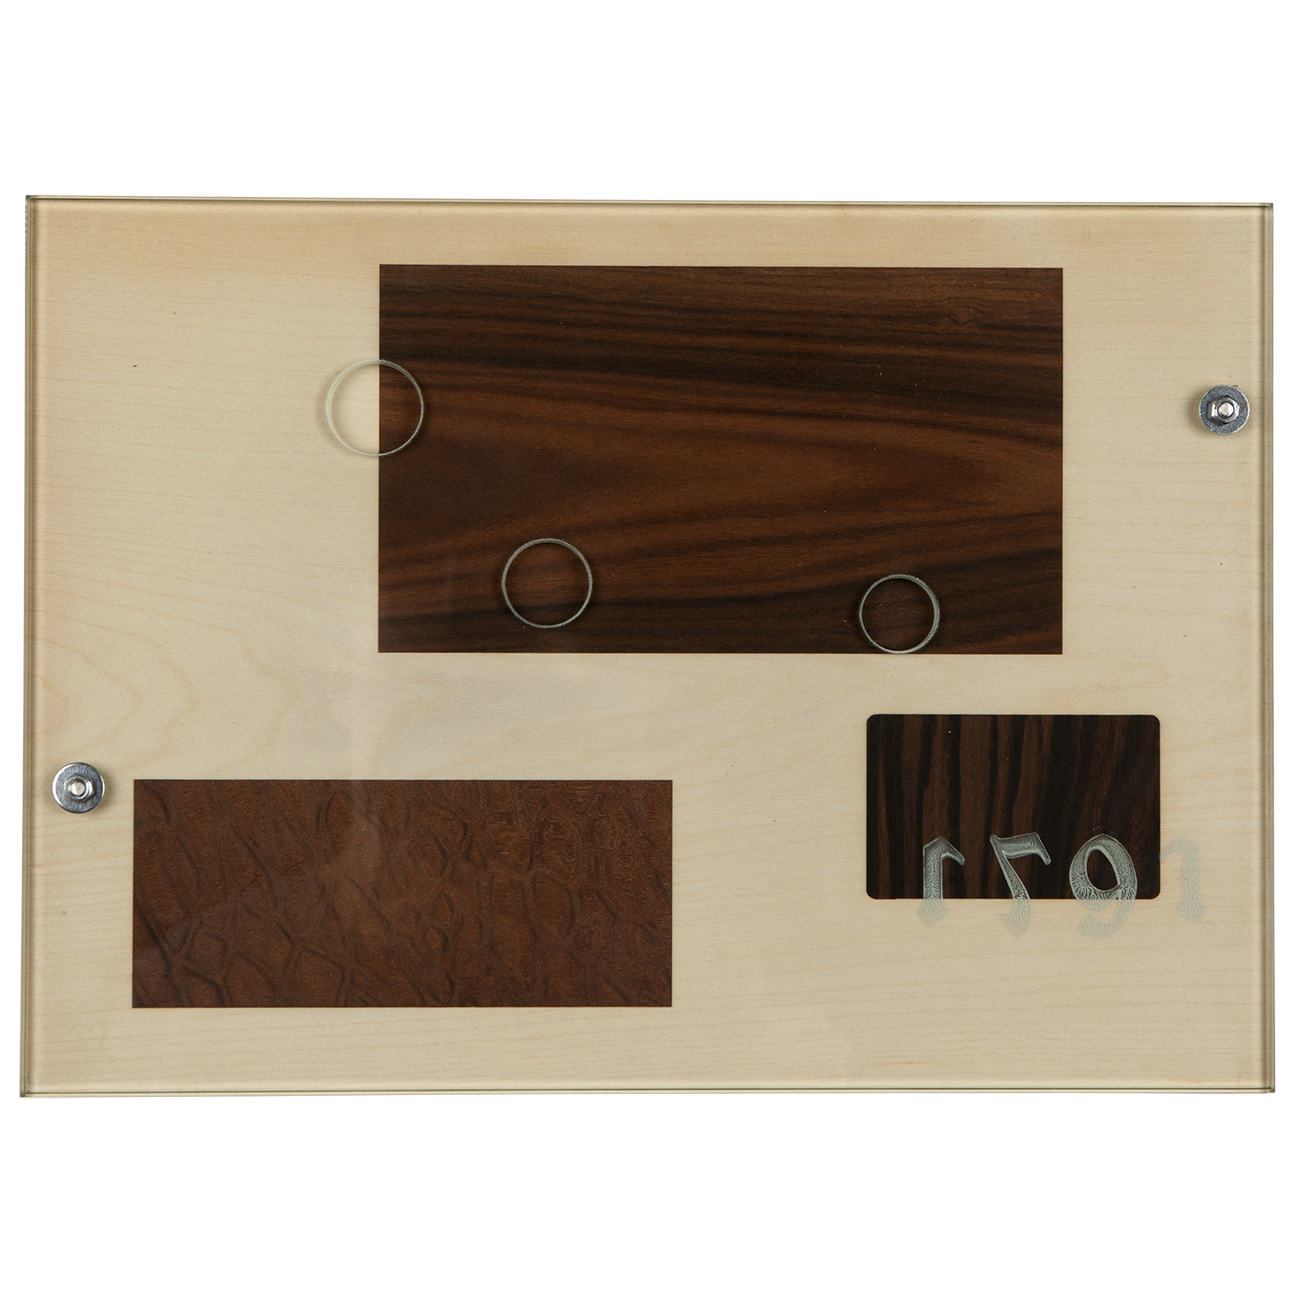
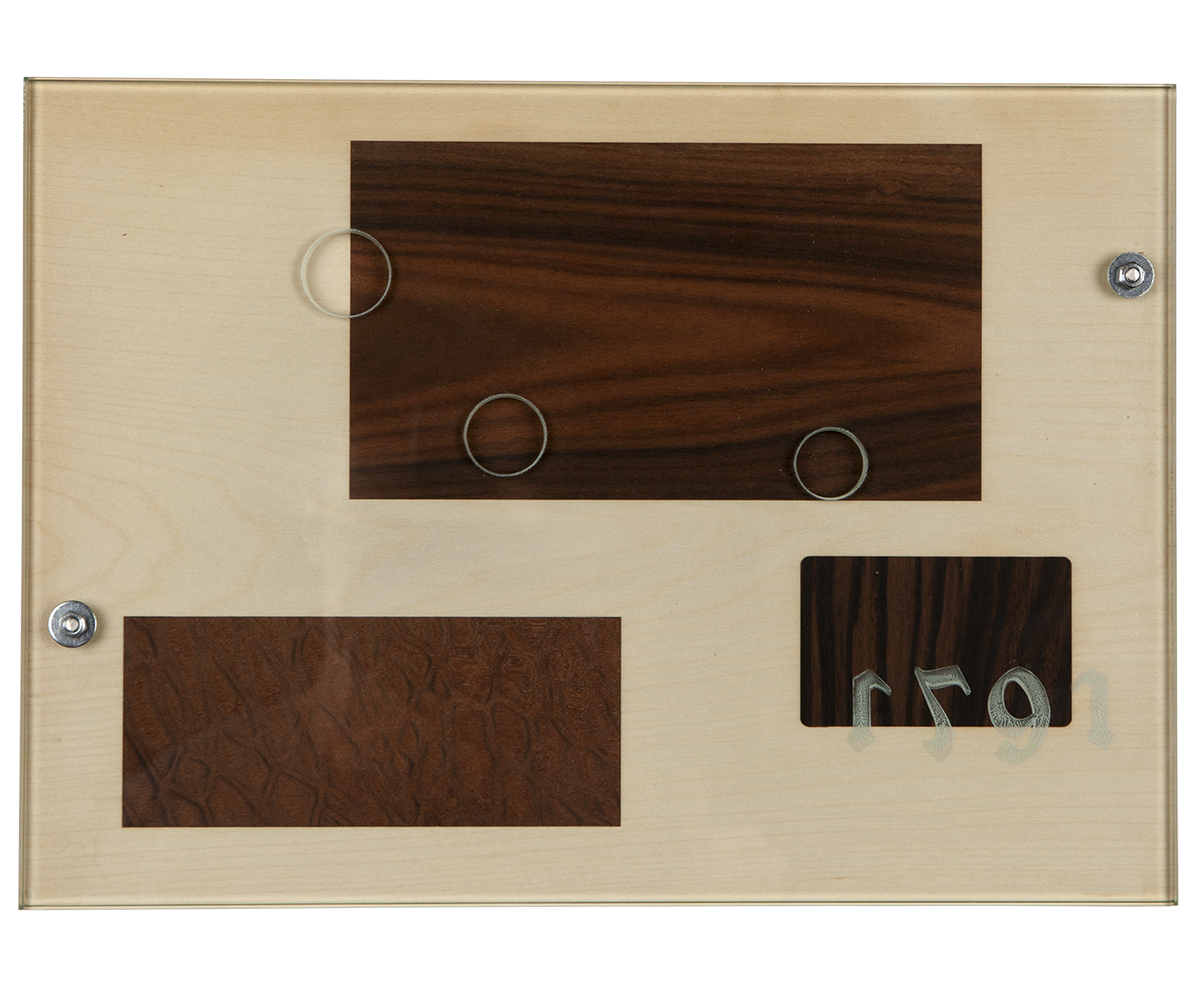
Styling Images

diff --git a/1E.html b/1E.html
@@ -1,17 +1,15 @@
 <html>
   <head><link href="style.css" type="text/css" rel="stylesheet"></head>
-  <body class="flex">
+  <body>
     <h3 class="prose">
-     
         <a href="1E1.html"  >A gleaming sweat slathered on skin and screened across another, </a> 
         <a href="1E2.html"   class="even">through hair, through underwear and spattered over flesh and bedspread alike, her back slick wet, her back dripping, nitid with a chest-flung perspiration that streams whilst thighs rub raw and stretch to the thrusting, the scratching, the bite, in sensations engulfed by eddies of hot breath and rage and spat on withdrawal, as come dribbles arsehole down, two hips thrashed aflame, recoiling, her dark mop buried in the sheets and cunt and anus gaping, </a> 
         <a href="1E3.html"  >to nothing, </a> 
         <a href="1E4.html"   class="even">to gloom, to the silence stuffed cavern where the softened reek of shit chokes quietude and blackness, where yellowed faecal streaks cross from cock to cotton with inhalation and judder as I roll to rags beside, clasping trousers, shoes,  whilst vision pours into mine, in a bloodshot, moistened intensity, unwavering before whimpers fall forth, before she asks and pleads and beseeches me to stay, her lip wobbling and body scrunched, knees to nipples and eyes searching, </a> 
         <a href="1E5.html"  >and I think no,</a> 
-        <a href="1E6.html"   class="even">not now, not ever, not at day’s end, nor whilst eyelids clench need, their miseries flung forward to cling and claw and cleave refusal, in denial, beggeting a no, in a slow and rehearsed meaninglessness that prevails because it must, because the suffocating weight of idiocy demands, because the blubbering confusion persists, and because I cannot brook the lies of tenderness ahead, which declare that this is sufficient and aver that I am not the bastard bearer of sadness, because I am the bastard bearer of sadness, and destitution looms, so I leave, tiptoeing lightly down stairs, </a> 
+        <a href="1E6.html"   class="even">not now, not ever, not at day's end, nor whilst eyelids clench need, their miseries flung forward to cling and claw and cleave refusal, in denial, beggeting a no, in a slow and rehearsed meaninglessness that prevails because it must, because the suffocating weight of idiocy demands, because the blubbering confusion persists, and because I cannot brook the lies of tenderness ahead, which declare that this is sufficient and aver that I am not the bastard bearer of sadness, because I am the bastard bearer of sadness, and destitution looms, so I leave, tiptoeing lightly down stairs, </a> 
         <a href="1E7.html"  >to where tears fall and fixations congeal, </a> 
-        <a href="1E8.html"   class="even">where bodies ache and a leaden carpet of possibility unfurls slowly unto dusk.</a> 
-      </h3>
+        <a href="1E8.html"   class="even">where bodies ache and a leaden carpet of possibility unfurls slowly unto dusk.</a></h3>
       <br>
       <h3 class= "hidden"><a href= "1E Words Image.html" class= "secret"> < </a></h3>
       <br>

diff --git a/style.css b/style.css
@@ -143,6 +143,23 @@ a:link {
     width: 60%;
 }
 
+#work-image2{
+  left: 0px;
+  right: 0px;
+  margin-left: auto;
+  margin-right: auto;
+  width: 80%;
+}
+
+
+#work-image3{
+  left: 0px;
+  right: 0px;
+  margin-left: auto;
+  margin-right: auto;
+  width: 90%;
+}
+
 #work-image a img{
     width: 100%;
     height: 100%;
@@ -154,6 +171,32 @@ a:link {
   margin-left: auto;
   margin-right: auto;
   width: 100%;
+}
+
+#work-image2 a img{
+  width: 100%;
+  height: 100%;
+  left: 0px;
+  right: 0px;
+  margin-bottom: 3%;
+  margin-top: 3%;
+  display: block;
+margin-left: auto;
+margin-right: auto;
+width: 100%;
+}
+
+#work-image3 a img{
+  width: 100%;
+  height: 100%;
+  left: 0px;
+  right: 0px;
+  margin-bottom: 3%;
+  margin-top: 3%;
+  display: block;
+margin-left: auto;
+margin-right: auto;
+width: 100%;
 }
 
 

diff --git a/1A5.html b/1A5.html
@@ -3,12 +3,11 @@
   <head><link href="style.css" type="text/css" rel="stylesheet">
   </head>
   <body class= "caption-page">
-  <div id= "work-image">
+  <div id= "work-image2">
     <a href="1A Words Image.html">
-      <img src="Examp.jpg" alt="examp"></img>
+      <img src="religio 2.jpg"></img>
     </a>
   </div>
-      <br>
       <h3 class= "caption">Rotated frontispiece <i>Religio Medici</i>, DL envelope, Etched copper</h3>
       <br>
       <br>

diff --git a/1E Words Image.html b/1E Words Image.html
@@ -3,9 +3,9 @@
   <head><link href="style.css" type="text/css" rel="stylesheet">
   </head>
   <body class= "caption-page">
-  <div id= "work-image">
+  <div id= "work-image3">
     <a href="1E.html">
-      <img class="duchamp" src="colne.png" alt="examp"></img>
+      <img class="duchamp2" src="colne2.png"></img>
   </a>
 </div>
     <br>

diff --git a/1B Words Image.html b/1B Words Image.html
@@ -3,7 +3,7 @@
   <head><link href="style.css" type="text/css" rel="stylesheet">
   </head>
   <body class= "caption-page">
-  <div id= "work-image">
+  <div id= "work-image2">
     <a href="1B.html">
       <img class="duchamp" src="Fabric copy.png" alt="examp"></img>
   </a>

diff --git a/1E7.html b/1E7.html
@@ -3,7 +3,7 @@
   <head><link href="style.css" type="text/css" rel="stylesheet">
   </head>
   <body class= "caption-page">
-  <div id= "work-image">
+  <div id= "work-image3">
     <a href="1E Words Image.html">
       <img src="indiamap.jpg"></img>
   </a>

diff --git a/1E3.html b/1E3.html
@@ -3,7 +3,7 @@
   <head><link href="style.css" type="text/css" rel="stylesheet">
   </head>
   <body class= "caption-page">
-  <div id= "work-image">
+  <div id= "work-image3">
     <a href="1E Words Image.html">
       <img src="zennith.jpg"></img>
   </a>

diff --git a/1E2.html b/1E2.html
@@ -3,7 +3,7 @@
   <head><link href="style.css" type="text/css" rel="stylesheet">
   </head>
   <body class= "caption-page">
-  <div id= "work-image">
+  <div id= "work-image3">
     <a href="1E Words Image.html">
       <img src="camera.jpg"></img>
   </a>

diff --git a/1E5.html b/1E5.html
@@ -3,7 +3,7 @@
   <head><link href="style.css" type="text/css" rel="stylesheet">
   </head>
   <body class= "caption-page">
-  <div id= "work-image">
+  <div id= "work-image3">
     <a href="1E Words Image.html">
       <img src="annals.jpg"></img>
   </a>

diff --git a/1E6.html b/1E6.html
@@ -3,7 +3,7 @@
   <head><link href="style.css" type="text/css" rel="stylesheet">
   </head>
   <body class= "caption-page">
-  <div id= "work-image">
+  <div id= "work-image3">
     <a href="1E Words Image.html">
       <img src="africa.jpg"></img>
   </a>

diff --git a/1E1.html b/1E1.html
@@ -3,7 +3,7 @@
   <head><link href="style.css" type="text/css" rel="stylesheet">
   </head>
   <body class= "caption-page">
-  <div id= "work-image">
+  <div id= "work-image3">
     <a href="1E Words Image.html">
       <img src="colne.jpg"></img>
   </a>

diff --git a/1E4.html b/1E4.html
@@ -3,7 +3,7 @@
   <head><link href="style.css" type="text/css" rel="stylesheet">
   </head>
   <body class= "caption-page">
-  <div id= "work-image">
+  <div id= "work-image3">
     <a href="1E Words Image.html">
       <img src="mouse.jpg"></img>
   </a>
